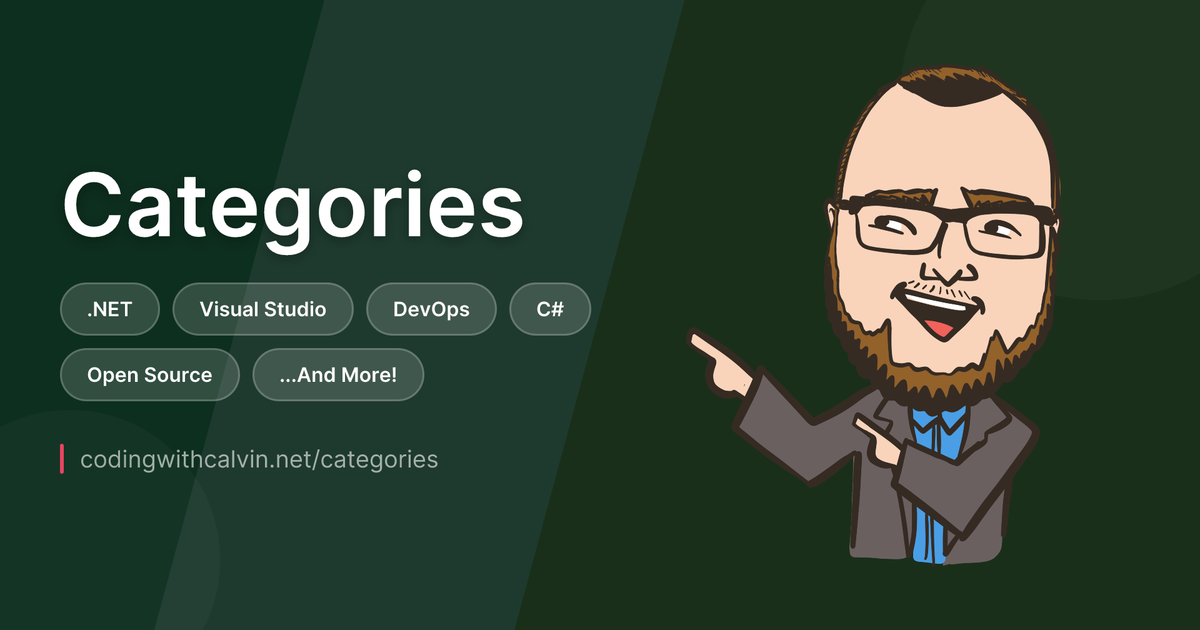
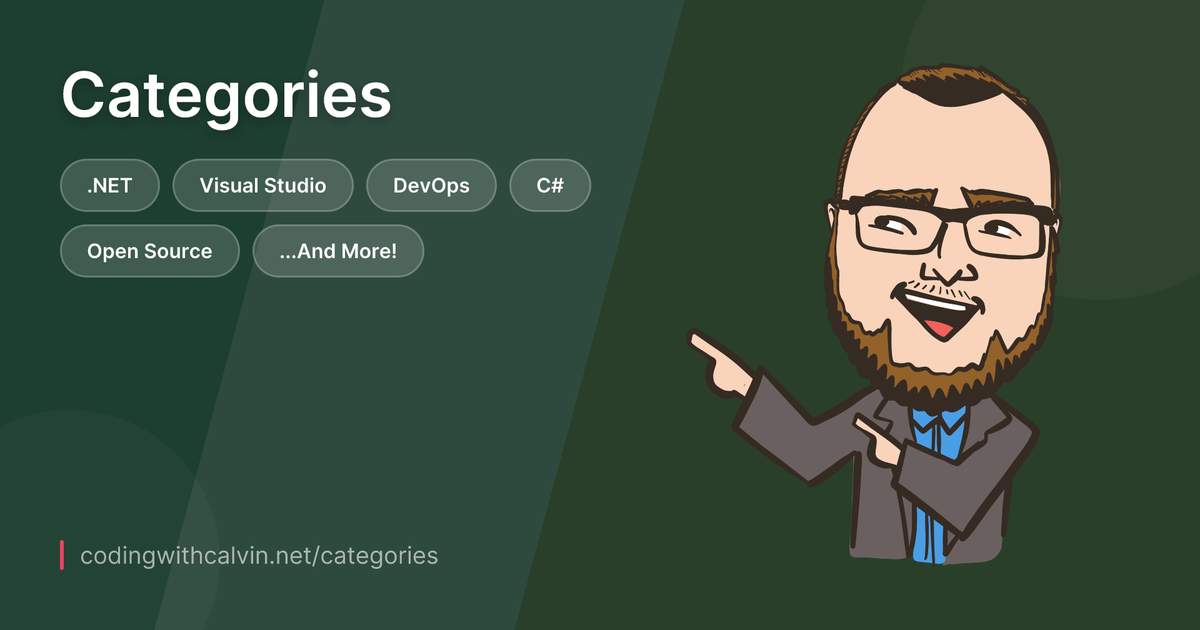
style(og-images): improve page OG image styling
- Use distinct colors per page: blue (home), orange (blog), green
  (categories), purple (projects)
- Brighten all color schemes
- Anchor URL at bottom of each image
- Standardize title font size to 100 across all pages

diff --git a/scripts/generate-page-og.js b/scripts/generate-page-og.js
@@ -162,7 +162,7 @@ function createBaseTemplate(children, gradientColors) {
 
 // Home page template
 function createHomeTemplate(logoBase64, caricatureBase64) {
-  const gradientColors = { start: "#1a1a2e", mid: "#16213e", end: "#0f3460" };
+  const gradientColors = { start: "#2a2a3e", mid: "#26314e", end: "#1f4470" };
 
   const leftContent = {
     type: "div",
@@ -208,7 +208,7 @@ function createHomeTemplate(logoBase64, caricatureBase64) {
             style: {
               display: "flex",
               alignItems: "center",
-              marginTop: 48,
+              marginTop: "auto",
             },
             children: [
               {
@@ -271,9 +271,10 @@ function createHomeTemplate(logoBase64, caricatureBase64) {
         style: {
           display: "flex",
           flexDirection: "row",
-          alignItems: "center",
+          alignItems: "stretch",
           justifyContent: "space-between",
           width: "100%",
+          height: "100%",
         },
         children: [leftContent, rightContent].filter(Boolean),
       },
@@ -285,7 +286,7 @@ function createHomeTemplate(logoBase64, caricatureBase64) {
 
 // Blog page template
 function createBlogTemplate(caricatureBase64) {
-  const gradientColors = { start: "#2d1b4e", mid: "#1e3a5f", end: "#0d2137" };
+  const gradientColors = { start: "#4d3520", mid: "#5a4028", end: "#6a4830" };
 
   const leftContent = {
     type: "div",
@@ -301,7 +302,7 @@ function createBlogTemplate(caricatureBase64) {
           type: "div",
           props: {
             style: {
-              fontSize: 140,
+              fontSize: 100,
               fontWeight: 700,
               color: "#FFFFFF",
               lineHeight: 1.1,
@@ -331,7 +332,7 @@ function createBlogTemplate(caricatureBase64) {
             style: {
               display: "flex",
               alignItems: "center",
-              marginTop: 64,
+              marginTop: "auto",
             },
             children: [
               {
@@ -394,9 +395,10 @@ function createBlogTemplate(caricatureBase64) {
         style: {
           display: "flex",
           flexDirection: "row",
-          alignItems: "center",
+          alignItems: "stretch",
           justifyContent: "space-between",
           width: "100%",
+          height: "100%",
         },
         children: [leftContent, rightContent].filter(Boolean),
       },
@@ -408,7 +410,7 @@ function createBlogTemplate(caricatureBase64) {
 
 // Categories page template
 function createCategoriesTemplate(caricatureBase64) {
-  const gradientColors = { start: "#1a2f1a", mid: "#1e3a2e", end: "#0d2f1f" };
+  const gradientColors = { start: "#2a3f2a", mid: "#2e4a3e", end: "#1d3f2f" };
 
   // Sample category badges
   const categories = [".NET", "Visual Studio", "DevOps", "C#", "Open Source", "...And More!"];
@@ -455,7 +457,7 @@ function createCategoriesTemplate(caricatureBase64) {
           type: "div",
           props: {
             style: {
-              fontSize: 140,
+              fontSize: 100,
               fontWeight: 700,
               color: "#FFFFFF",
               lineHeight: 1.1,
@@ -484,7 +486,7 @@ function createCategoriesTemplate(caricatureBase64) {
             style: {
               display: "flex",
               alignItems: "center",
-              marginTop: 48,
+              marginTop: "auto",
             },
             children: [
               {
@@ -547,9 +549,10 @@ function createCategoriesTemplate(caricatureBase64) {
         style: {
           display: "flex",
           flexDirection: "row",
-          alignItems: "center",
+          alignItems: "stretch",
           justifyContent: "space-between",
           width: "100%",
+          height: "100%",
         },
         children: [leftContent, rightContent].filter(Boolean),
       },
@@ -561,7 +564,7 @@ function createCategoriesTemplate(caricatureBase64) {
 
 // Projects page template
 function createProjectsTemplate(iconImages) {
-  const gradientColors = { start: "#1a1a2e", mid: "#16213e", end: "#0f3460" };
+  const gradientColors = { start: "#3a2a50", mid: "#4a3060", end: "#302545" };
 
   const leftContent = {
     type: "div",
@@ -577,7 +580,7 @@ function createProjectsTemplate(iconImages) {
           type: "div",
           props: {
             style: {
-              fontSize: 115,
+              fontSize: 100,
               fontWeight: 700,
               color: "#FFFFFF",
               lineHeight: 1.1,
@@ -591,7 +594,7 @@ function createProjectsTemplate(iconImages) {
           type: "div",
           props: {
             style: {
-              fontSize: 115,
+              fontSize: 100,
               fontWeight: 700,
               color: "#FFFFFF",
               lineHeight: 1.1,
@@ -621,7 +624,7 @@ function createProjectsTemplate(iconImages) {
             style: {
               display: "flex",
               alignItems: "center",
-              marginTop: 64,
+              marginTop: "auto",
             },
             children: [
               {
@@ -748,9 +751,10 @@ function createProjectsTemplate(iconImages) {
         style: {
           display: "flex",
           flexDirection: "row",
-          alignItems: "center",
+          alignItems: "stretch",
           justifyContent: "space-between",
           width: "100%",
+          height: "100%",
         },
         children: [leftContent, rightContent],
       },
